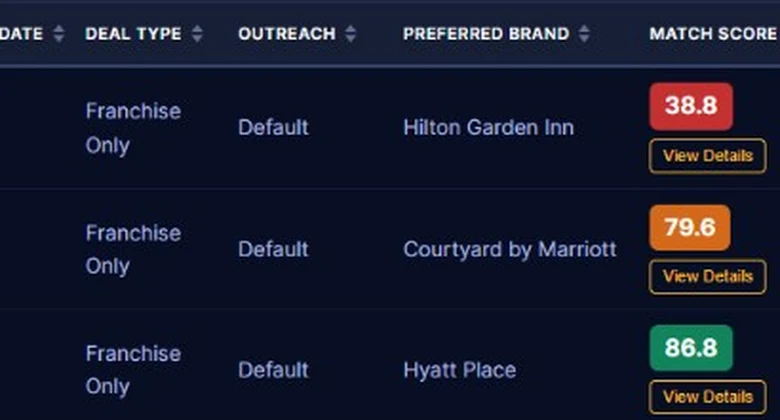
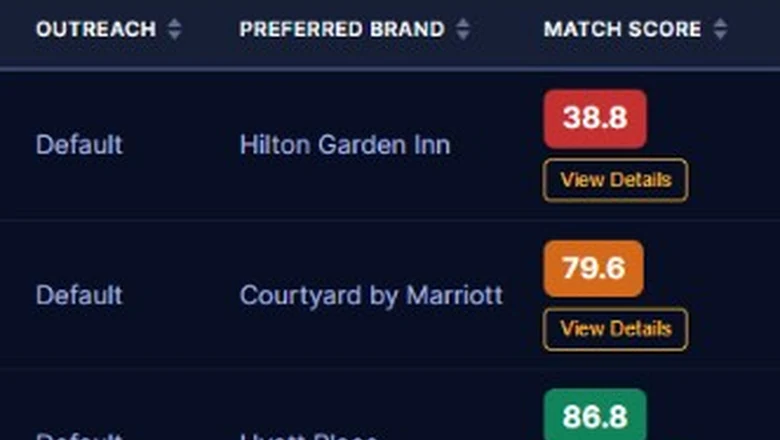
Tighten Smart Matching to brand+score with taller tile
Crop from Preferred Brand through full View Details and raise the
support frame aspect so cover zooms out instead of clipping buttons.

diff --git a/webflow-embeds/many-futures/many-futures.css b/webflow-embeds/many-futures/many-futures.css
@@ -586,17 +586,20 @@
 }
 
 #dealality-many-futures .mf-feat--support > .mf-feat-visual:not(.mf-feat-visual--ui):has(.mf-feat-img--scores) {
-  /* Taller frame = zoom out vs prior 128px crop */
-  max-height: 188px;
-  padding: 0 6px;
+  /* Taller than default 16/9 support frame so cover zooms out */
+  aspect-ratio: 16 / 11;
+  height: auto;
+  min-height: 176px;
+  max-height: 210px;
+  padding: 0 4px;
   box-sizing: border-box;
   background: #0a1228;
 }
 
 #dealality-many-futures .mf-feat-img--scores {
   object-fit: cover;
-  /* Asset is already right-biased; keep a mild right/top bias in-tile */
-  object-position: 62% 32%;
+  /* Mild right bias: Preferred Brand + full Match Score / View Details */
+  object-position: 72% 30%;
 }
 
 #dealality-many-futures .mf-feat-img--fee {

diff --git a/webflow-embeds/many-futures/scripts/final-visual-polish.py b/webflow-embeds/many-futures/scripts/final-visual-polish.py
@@ -90,11 +90,11 @@ def brand_smart_matching_crops() -> None:
         top = int(round(max(0, nh - out_h) * oy))
         return resized.crop((left, top, left + out_w, top + out_h))
 
-    # Wider region = zoom out; trim just past score pills; high ox keeps scores on the right edge
-    desk_region = src.crop((540, 78, min(w - 6, 990), min(h - 2, 508)))
-    mob_region = src.crop((580, 82, min(w - 6, 990), min(h - 2, 510)))
-    save_png_webp(cover_fill(desk_region, 1024, 480, ox=0.88, oy=0.34), "smart-matching-desktop")
-    save_png_webp(cover_fill(mob_region, 780, 420, ox=0.92, oy=0.32), "smart-matching-mobile")
+    # Start near Preferred Brand; keep full Match Score + View Details
+    desk_region = src.crop((655, 82, w - 2, min(h - 2, 508)))
+    mob_region = src.crop((690, 88, w - 2, min(h - 2, 510)))
+    save_png_webp(cover_fill(desk_region, 1024, 500, ox=0.62, oy=0.30), "smart-matching-desktop")
+    save_png_webp(cover_fill(mob_region, 780, 440, ox=0.68, oy=0.28), "smart-matching-mobile")
 
 
 def operator_smart_matching_crops() -> None:
